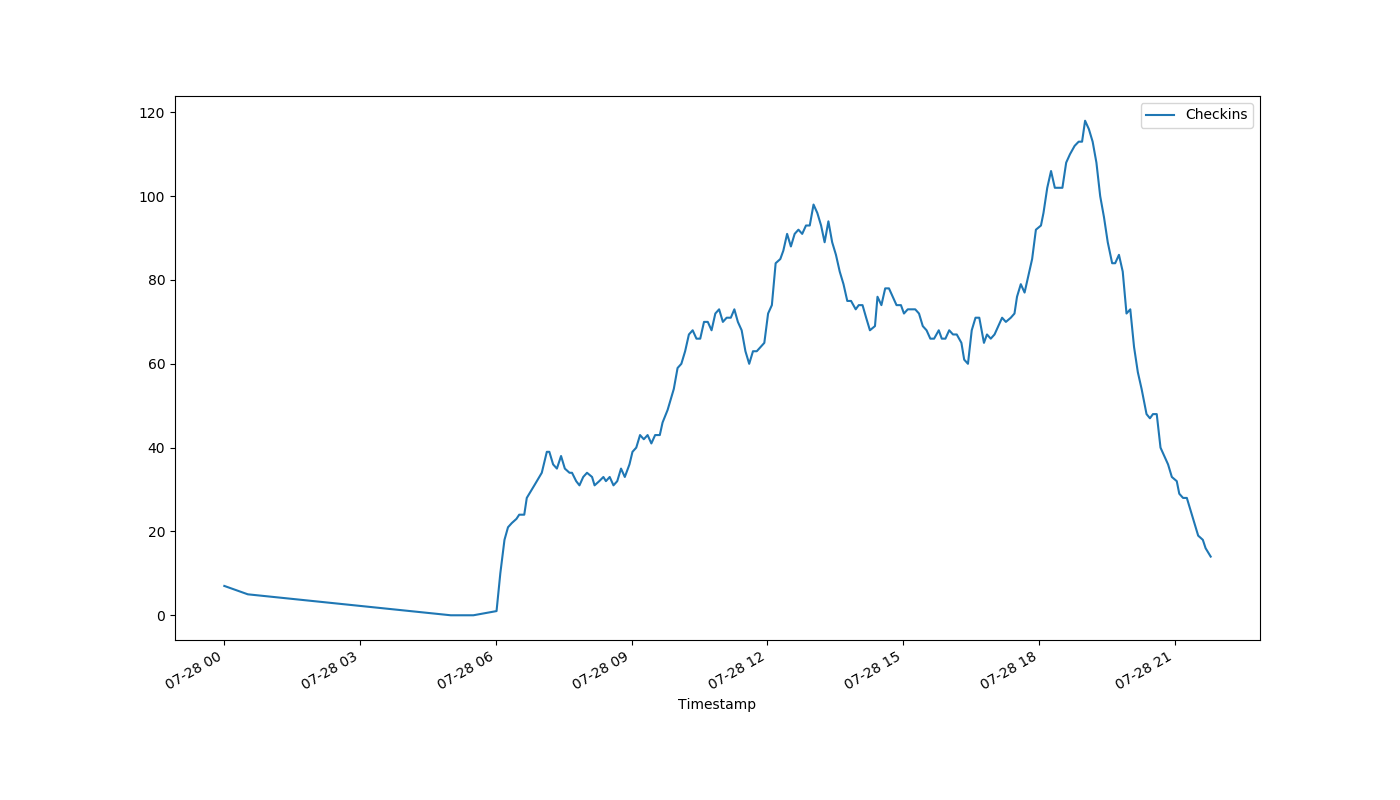
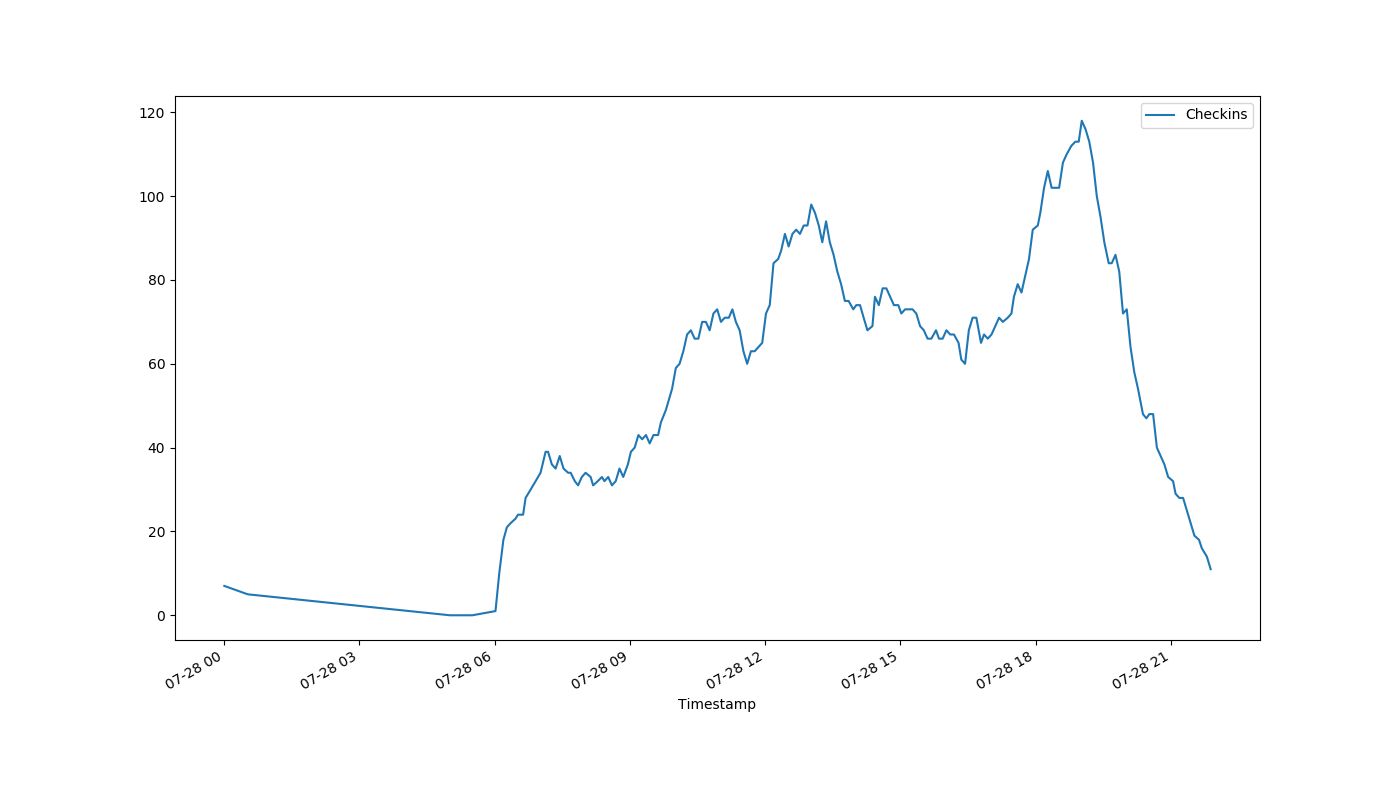
auto-Jul-28-21:54:09

diff --git a/index.html b/index.html
@@ -1,1 +1,1 @@
-<!DOCTYPE html><html><head><meta http-equiv="refresh" content="30"><link rel='stylesheet' href='holmcurrent.css'></head><body><p id='count'>-1</p><div id='graph-wrap'><img id='graph' src='holmgraph-Jul-28.png'></div><p id='updated'>Last updated 21:52:05 / 21:51:31</p></body></html>
+<!DOCTYPE html><html><head><meta http-equiv="refresh" content="30"><link rel='stylesheet' href='holmcurrent.css'></head><body><p id='count'>11</p><div id='graph-wrap'><img id='graph' src='holmgraph-Jul-28.png'></div><p id='updated'>Last updated 21:53:05 / 21:52:52</p></body></html>
